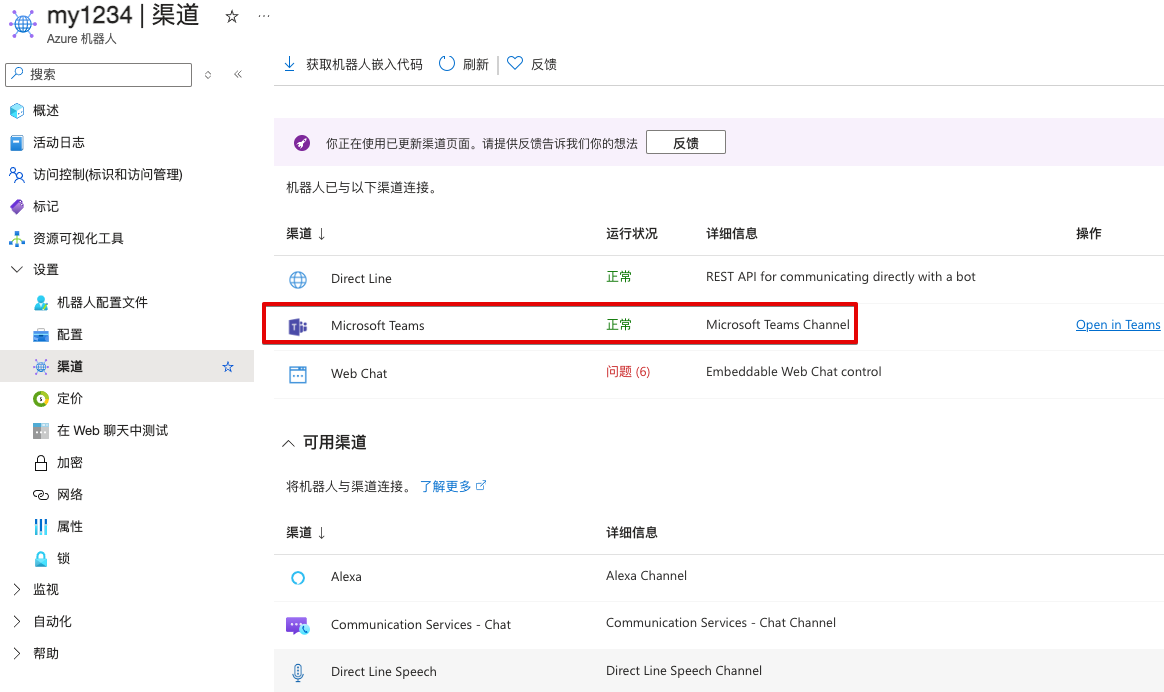
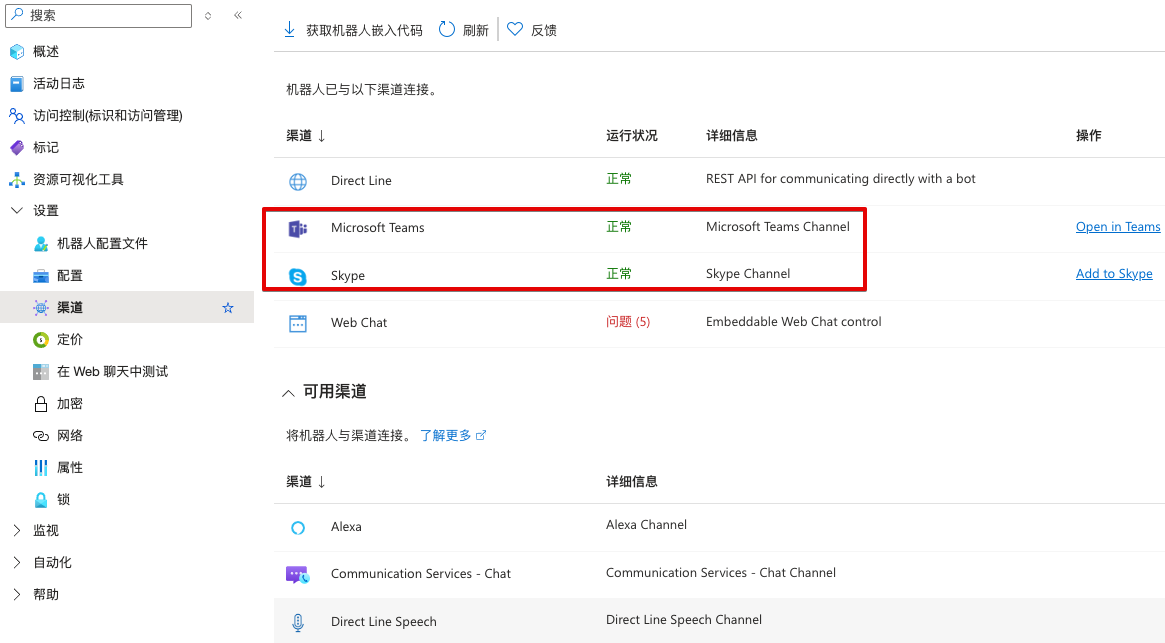
更新说明

diff --git a/README.md b/README.md
@@ -28,7 +28,7 @@ pip install -r requirements.txt
 1. [注册一个 azure 帐号](https://portal.azure.com/#home)
 2. 搜索 azure bot，创建一个机器人 ![创建](./doc/createbot.png)
 3. 在配置里为“消息传递终结点”添加一个域名 ![配置](./doc/config.png)
-4. 在“渠道”中添加 ”Microsoft Teams“ ![渠道](./doc/channel.png)
+4. 在“渠道”中添加 ”Microsoft Teams“ 和 ”Skype ![渠道](./doc/channel.png)
 
 修改配置文件
 ```bash
